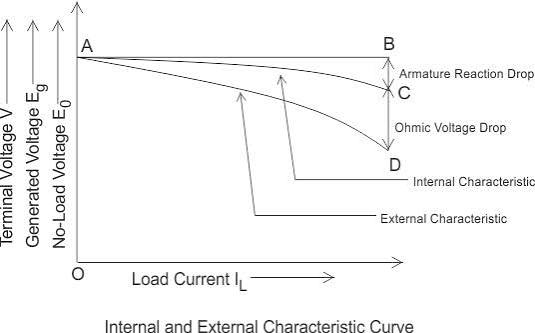
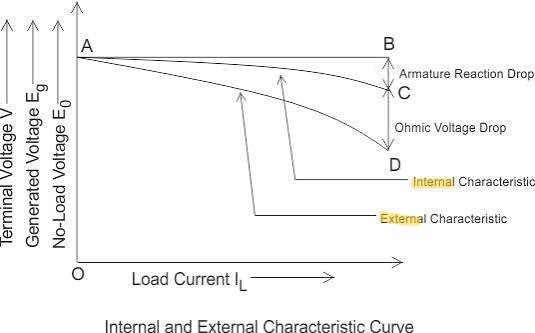
Auto

Changed region(s): [[0.6879, 0.6306, 0.8075, 0.6907], [0.7477, 0.5105, 0.8673, 0.5706]]

diff --git a/2-2/Machine/QnA DC generator and Special Machines.md b/2-2/Machine/QnA DC generator and Special Machines.md
@@ -587,8 +587,7 @@ When brushes are advanced by forward angle $\theta_m$ to align with the new MNA:
 
 ### 40. Page 3, Q.31: Draw and explain the no-load (generated emf at no load versus field current) and load (generated emf at on load versus armature current) characteristics of DC shunt, series and compound generators. [Figure Involved]
 
-![[Pasted image 20260715010455.png]]
-
+![[Pasted image 20260715010455.png|700]]
 #### 1. No-Load Magnetization Characteristic ($E_0$ vs. $I_f$)
 * Common to all DC generators when run at constant rated speed with armature open.
 * Starts at a non-zero voltage ($E_{\text{res}}$) due to **residual magnetism**.
@@ -599,7 +598,7 @@ When brushes are advanced by forward angle $\theta_m$ to align with the new MNA:
 
 * **Shunt Generator:**
   ![[Pasted image 20260715021010.png]]
-  ![[Pasted image 20260715015707.png]]
+  ![[Pasted image 20260715015707.png|627]]
   * Voltage drops slightly as load increases due to:
     1. Armature resistance drop ($I_a R_a$).
     2. Armature reaction demagnetization.
@@ -619,8 +618,8 @@ When brushes are advanced by forward angle $\theta_m$ to align with the new MNA:
     * *Flat-compounded:* Full-load voltage = No-load voltage.
     * *Under-compounded:* Full-load voltage < No-load voltage.
   * **Differential Compound:** Series flux opposes shunt flux ($\Phi = \Phi_{sh} - \Phi_{se}$).
-    ![[Pasted image 20260715024213.png]]
-    ![[Pasted image 20260715024741.png]]
+    ![[Pasted image 20260715024213.png|251]]
+    ![[Pasted image 20260715024741.png|395]]
     * Voltage drops drastically as load current increases; acts as a self-limiting constant-current source.
 
 * **Figure involved:** Yes (Curves embedded above).

diff --git a/2-2/Machine/A.N.  DC motor & generator.md b/2-2/Machine/A.N.  DC motor & generator.md
@@ -1,5 +1,6 @@
-![[Pasted image 20261026110057.png]]
-
+![[Pasted image 20261026110057.png]]![[Pasted image 20261027163027.png]]
+  ![[Pasted image 20260715021010.png]]
+  ![[Pasted image 20260715021142.png]]![[Pasted image 20260715024155.png]]![[Pasted image 20261027164333.png|635]]![[Pasted image 20260921070011.png]]![[Pasted image 20261027164403.png|636]]![[Pasted image 20260921072920.jpg]]  ![[Pasted image 20260715021424.png|628]]![[Pasted image 20260715024337.png|619]]![[Pasted image 20261027164643.png]]![[Pasted image 20260921073646.jpg]]![[Pasted image 20261027165607.png]]
 ![[Pasted image 20261026121217.png]]
 
 ![[Working_Principles_of_a_DC_Motor.webp]]
